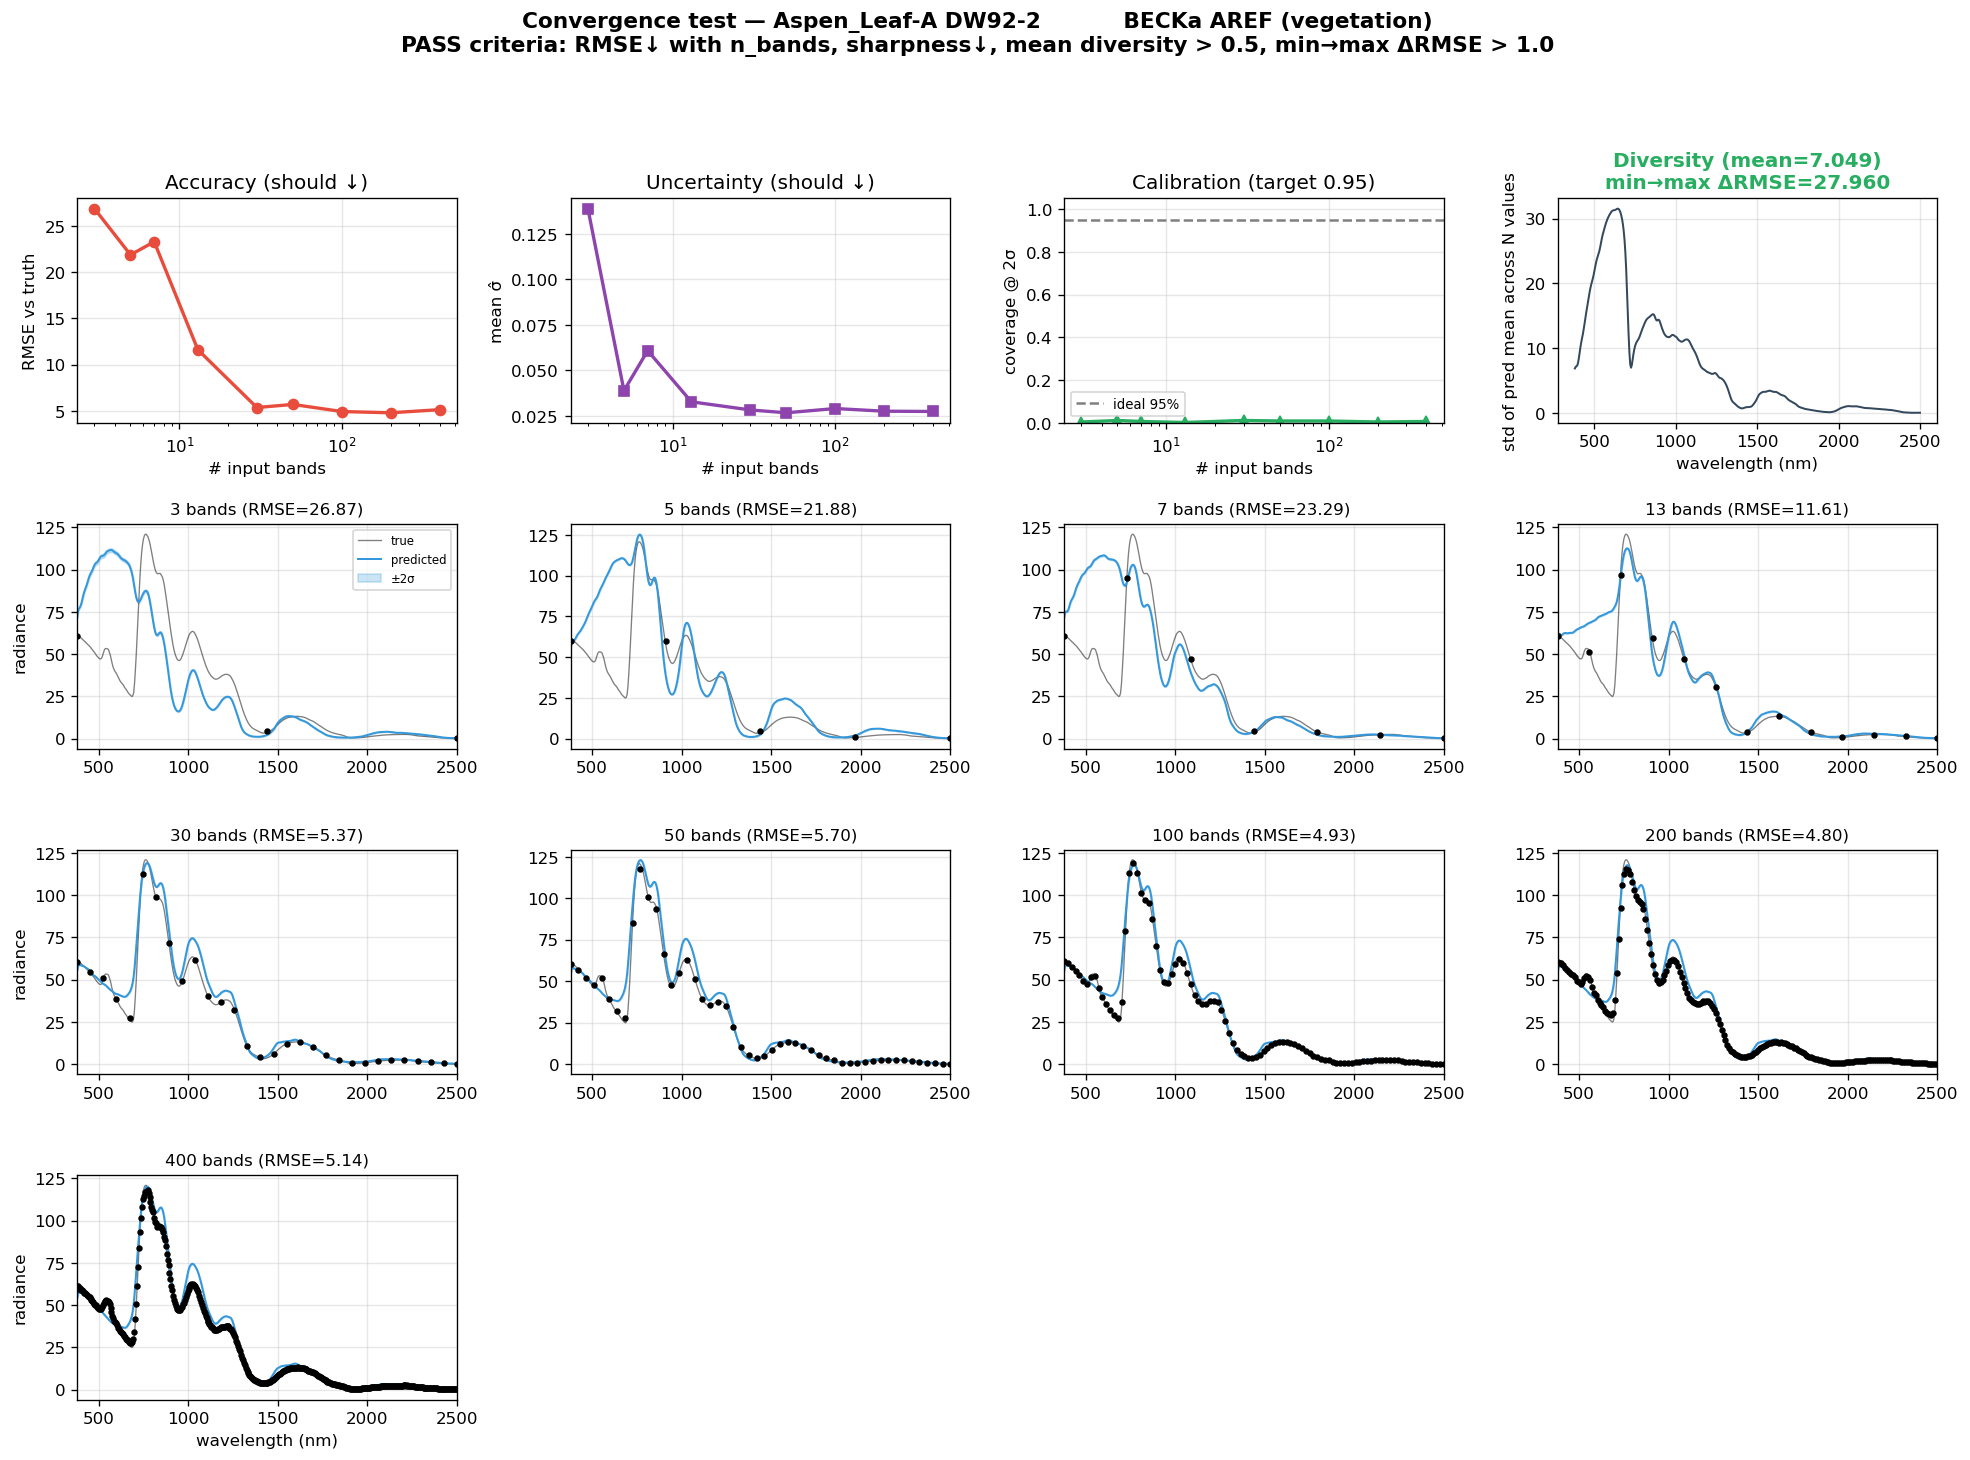
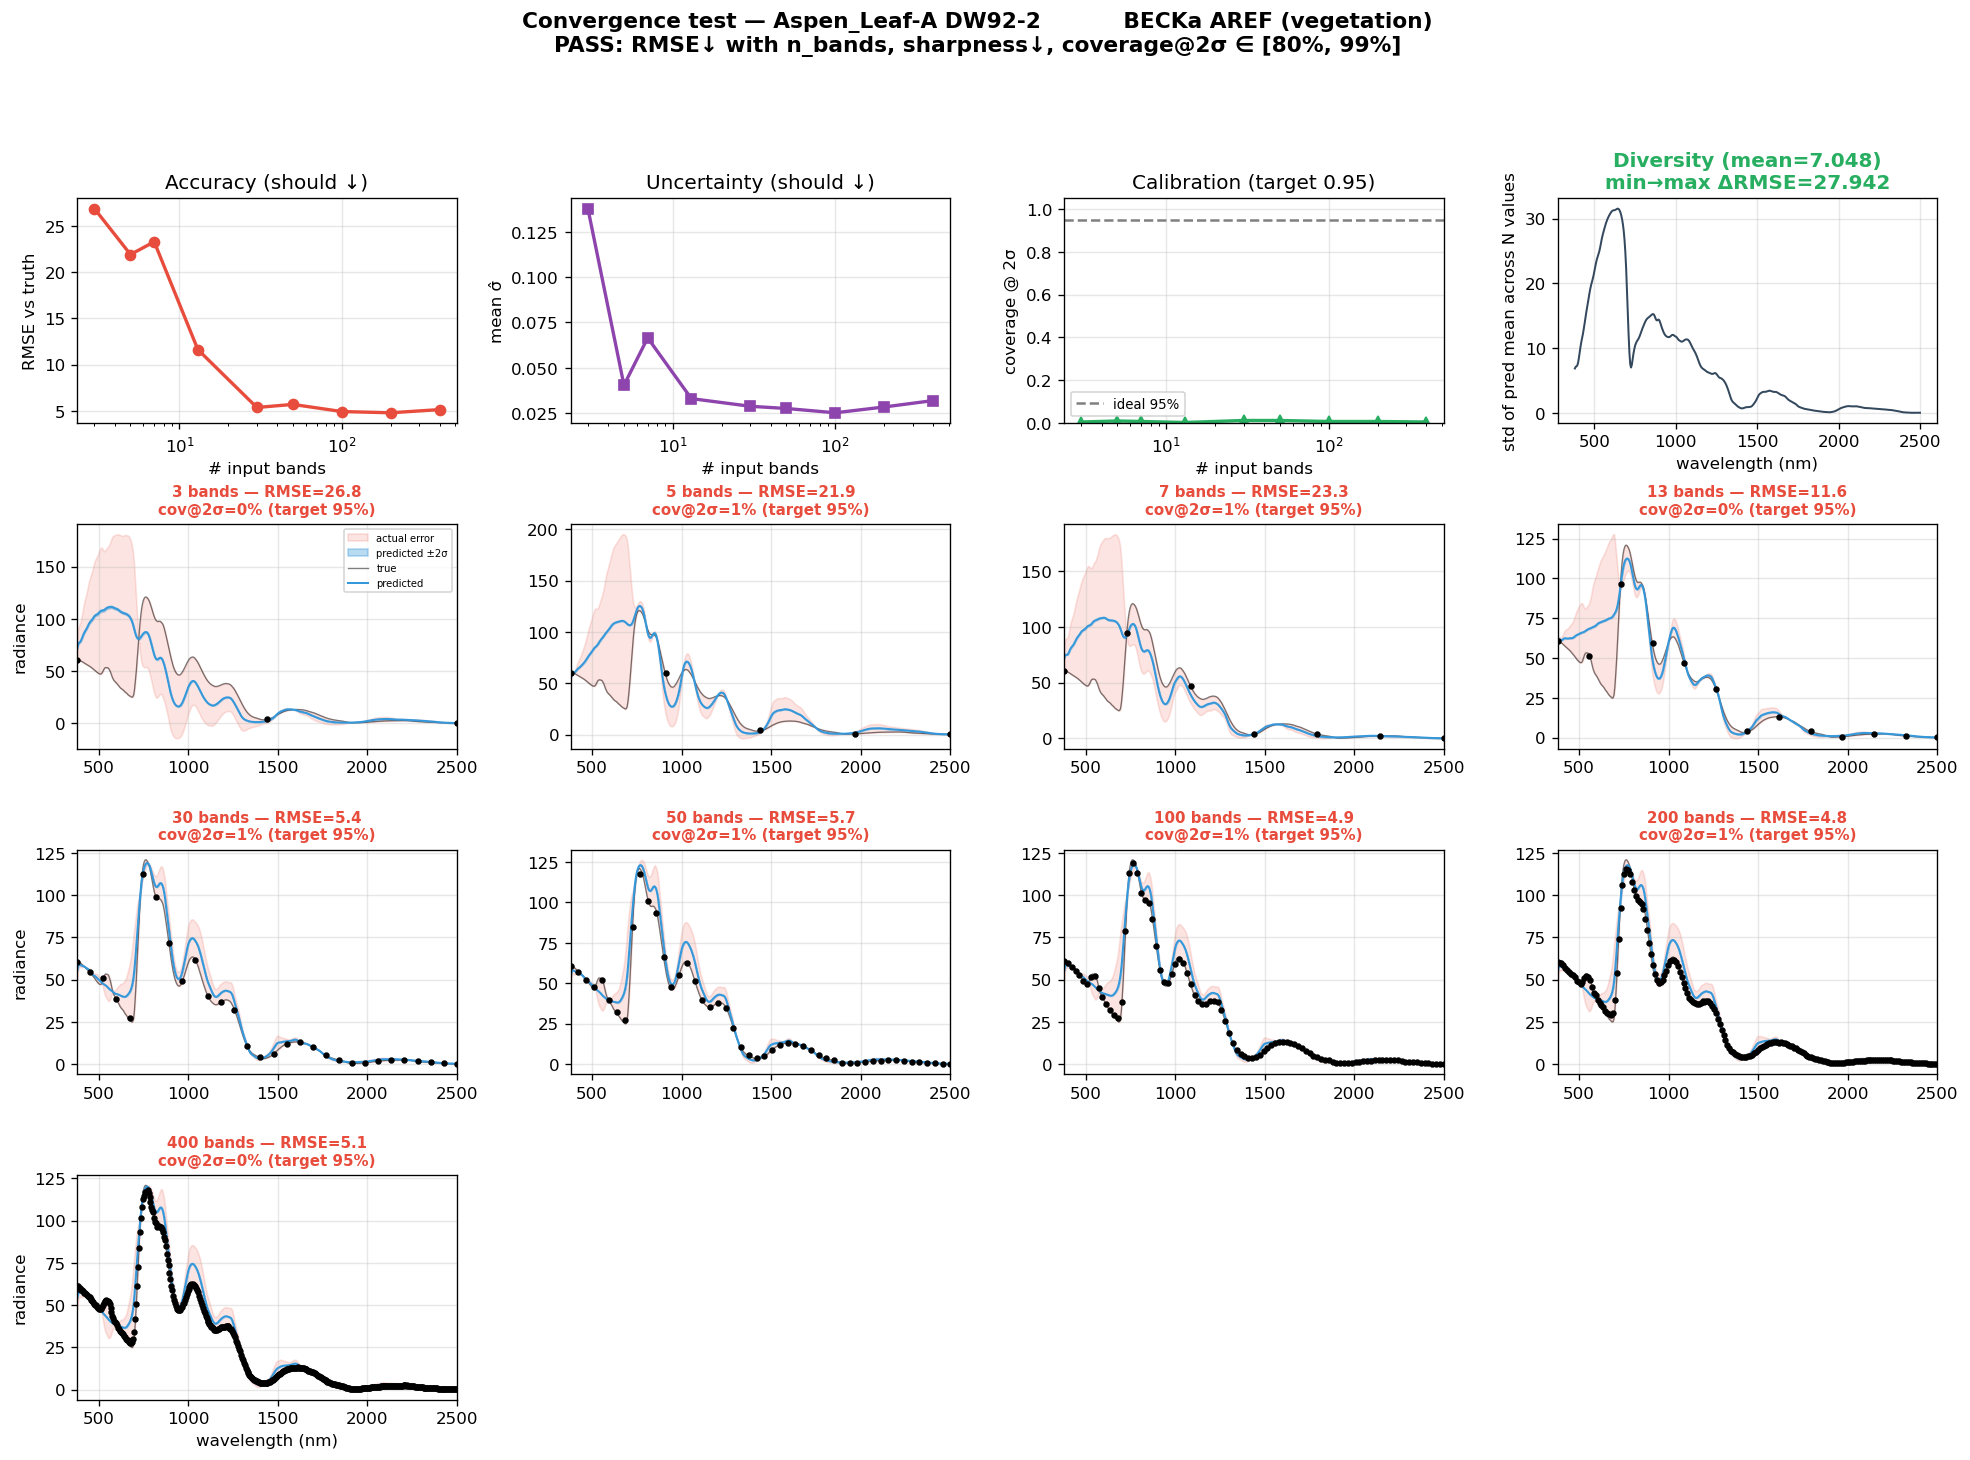
convergence_test: add calibration check + visible uncertainty bands
The predicted uncertainty was invisible in the per-N plots because
sigma was ~161× too small relative to RMSE. Now:

1. Each per-N subplot shows BOTH the predicted ±2σ (blue) AND the
   actual error magnitude (red shading). When blue << red, the model
   is wildly overconfident.

2. Each subplot title shows coverage@2σ in color:
   - green if 80% < cov < 99% (well calibrated)
   - red otherwise

3. Text output prominently reports:
   - Coverage@2σ at min and max band counts
   - Calibration error = |coverage - 95%|
   - Explicit "WILDLY OVERCONFIDENT" or "UNDERCONFIDENT" verdict
     with the ratio of RMSE to predicted sigma

Current model (iter_nor_simple epoch 50):
  Coverage@2σ = 0.5% at 400 bands (target 95%)
  σ = 0.032, RMSE = 5.14 → uncertainty is 161× too small

The model's mean predictions are excellent (6.95× RMSE improvement
with more bands) but uncertainty is meaningless. Next step: fix the
heteroscedastic loss to produce calibrated variances.

diff --git a/scripts/convergence_test.py b/scripts/convergence_test.py
@@ -214,34 +214,53 @@ def make_plot(
         row = 1 + i // 4
         col = i % 4
         ax = fig.add_subplot(gs[row, col])
-        ax.plot(dense_wl, truth, color="black", linewidth=0.8, alpha=0.5,
-                label="true")
-        ax.plot(dense_wl, r["pred_mean"], color="#3498db", linewidth=1.2,
-                label="predicted")
+
+        pred = r["pred_mean"]
+        std = r["pred_std"]
+        cov = metrics["coverage_2sigma"][i]
+
+        # Show the actual error as a shaded region so the user can see
+        # whether the predicted ±2σ is appropriately sized.
+        error = np.abs(pred - truth)
         ax.fill_between(
             dense_wl,
-            r["pred_mean"] - 2 * r["pred_std"],
-            r["pred_mean"] + 2 * r["pred_std"],
-            color="#3498db", alpha=0.25, label="±2σ",
+            pred - error,
+            pred + error,
+            color="#e74c3c", alpha=0.15, label="actual error",
         )
+        # Predicted ±2σ — draw even if very thin, with a visible edge.
+        ax.fill_between(
+            dense_wl,
+            pred - 2 * std,
+            pred + 2 * std,
+            color="#3498db", alpha=0.35, label="predicted ±2σ",
+        )
+        ax.plot(dense_wl, truth, color="black", linewidth=0.8, alpha=0.5,
+                label="true")
+        ax.plot(dense_wl, pred, color="#3498db", linewidth=1.2,
+                label="predicted")
         ax.scatter(r["input_wl"], r["input_rad"], s=8, color="black",
                    zorder=5)
-        ax.set_title(f"{r['n_bands']} bands "
-                     f"(RMSE={metrics['rmse_vs_truth'][i]:.2f})",
-                     fontsize=10)
+
+        # Coverage color: green if near 95%, red if way off.
+        cov_color = "#27ae60" if 0.80 < cov < 0.99 else "#e74c3c"
+        ax.set_title(
+            f"{r['n_bands']} bands — RMSE={metrics['rmse_vs_truth'][i]:.1f}\n"
+            f"cov@2σ={cov:.0%} (target 95%)",
+            fontsize=9, color=cov_color, fontweight="bold",
+        )
         ax.set_xlim(dense_wl[0], dense_wl[-1])
         if col == 0:
             ax.set_ylabel("radiance")
         if row == n_rows:
             ax.set_xlabel("wavelength (nm)")
         if i == 0:
-            ax.legend(fontsize=7, loc="upper right")
+            ax.legend(fontsize=6, loc="upper right")
         ax.grid(alpha=0.3)
 
     fig.suptitle(
         f"Convergence test — {data['spec_name']} ({data['category']})\n"
-        f"PASS criteria: RMSE↓ with n_bands, sharpness↓, mean diversity > 0.5, "
-        f"min→max ΔRMSE > 1.0",
+        f"PASS: RMSE↓ with n_bands, sharpness↓, coverage@2σ ∈ [80%, 99%]",
         fontsize=13, fontweight="bold", y=1.0,
     )
     fig.savefig(output_path, dpi=120, bbox_inches="tight")
@@ -319,11 +338,36 @@ def main():
     print(f"  Sharpness @ {BAND_COUNTS[0]} bands:                     {metrics['sharpness'][0]:.4f}")
     print(f"  Sharpness @ {BAND_COUNTS[-1]} bands:                    {metrics['sharpness'][-1]:.4f}")
 
+    # Coverage @ 2σ (calibration check)
+    cov_3 = metrics["coverage_2sigma"][0]
+    cov_400 = metrics["coverage_2sigma"][-1]
+    print(f"  Coverage@2σ @ {BAND_COUNTS[0]} bands:                   {cov_3:.1%}")
+    print(f"  Coverage@2σ @ {BAND_COUNTS[-1]} bands:                  {cov_400:.1%}")
+    print(f"  Target coverage@2σ:                       95%")
+    ideal = 0.9545
+    calib_err_3 = abs(cov_3 - ideal)
+    calib_err_400 = abs(cov_400 - ideal)
+    print(f"  Calibration error @ {BAND_COUNTS[0]} bands:              {calib_err_3:.1%}")
+    print(f"  Calibration error @ {BAND_COUNTS[-1]} bands:             {calib_err_400:.1%}")
+
     if metrics["mean_diversity"] < 0.05 or metrics["rmse_min_to_max"] < 0.05:
         print()
         print("  >>> POSTERIOR COLLAPSE DETECTED <<<")
         print("  Model produces ~identical predictions regardless of band count.")
         print("  Decoder is ignoring the latent z. KL regularization too strong.")
+
+    if cov_400 < 0.10:
+        print()
+        print("  >>> WILDLY OVERCONFIDENT <<<")
+        print(f"  Coverage@2σ = {cov_400:.1%} at {BAND_COUNTS[-1]} bands (should be ~95%).")
+        print(f"  Predicted σ is {metrics['sharpness'][-1]:.4f} but RMSE is "
+              f"{metrics['rmse_vs_truth'][-1]:.2f} — uncertainty is "
+              f"~{metrics['rmse_vs_truth'][-1] / max(metrics['sharpness'][-1], 1e-9):.0f}× too small.")
+    elif cov_400 > 0.99:
+        print()
+        print("  >>> UNDERCONFIDENT <<<")
+        print(f"  Coverage@2σ = {cov_400:.1%} at {BAND_COUNTS[-1]} bands (should be ~95%).")
+        print("  Predicted uncertainty is too wide.")
 
     # Multi-spectrum eval: average convergence metrics over many random
     # spectra to confirm the visual single-spectrum result generalises.
